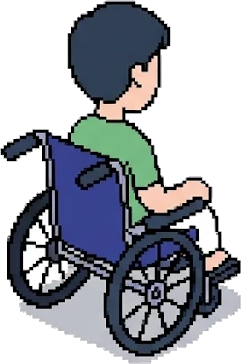
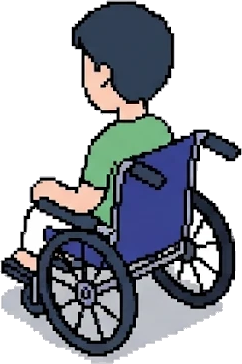
휠체어 이용자 이동 그림 방향 교체
↖로 갈 때 오른쪽 위 그림, ↗로 갈 때 왼쪽 위 그림을 쓰도록 바꿈.

Claude-Session: https://claude.ai/code/session_01MbA6voPuP9hfFURsXTDC13

diff --git a/js/game.js b/js/game.js
@@ -38,7 +38,7 @@
   ['floor', 'wall', 'entrance', 'tactile'].forEach(function (id) { tryImage('item:' + id, 'assets/items/' + id + '.png'); });
   tryImage('iso:tactile:a', 'assets/items/tactile_iso_a.png');  // 마름모 보기용 점자블록 타일
   cfg.visitors.forEach(function (v) {
-    // walk_a: 오른쪽 위로 가는 뒷모습, walk_b: 왼쪽 위로 가는 뒷모습, happy/sad: 도착했을 때
+    // walk_a: ↗ 오른쪽 위로 갈 때, walk_b: ↖ 왼쪽 위로 갈 때 쓰는 뒷모습, happy/sad: 도착했을 때
     ['normal', 'happy', 'sad', 'walk_a', 'walk_b'].forEach(function (f) { tryImage('visitor:' + v.id + ':' + f, 'assets/visitors/' + v.id + '_' + f + '.png'); });
   });
 
